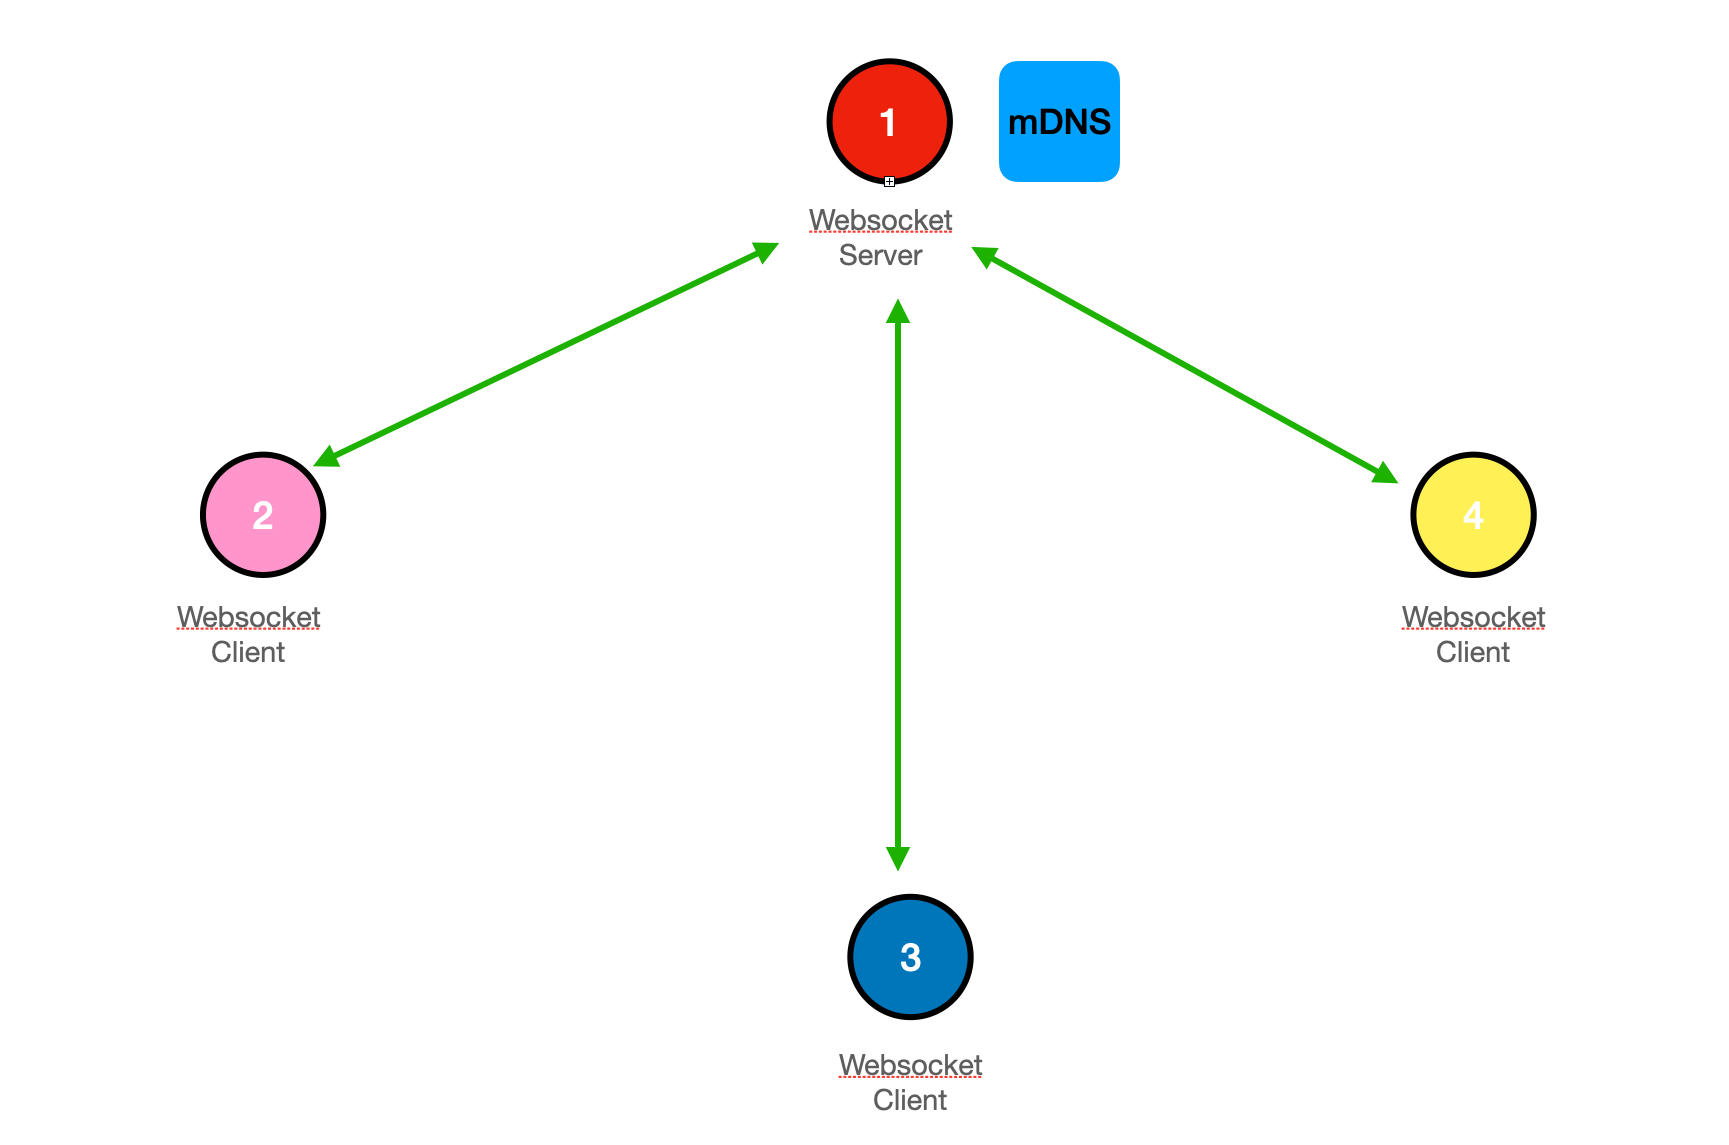
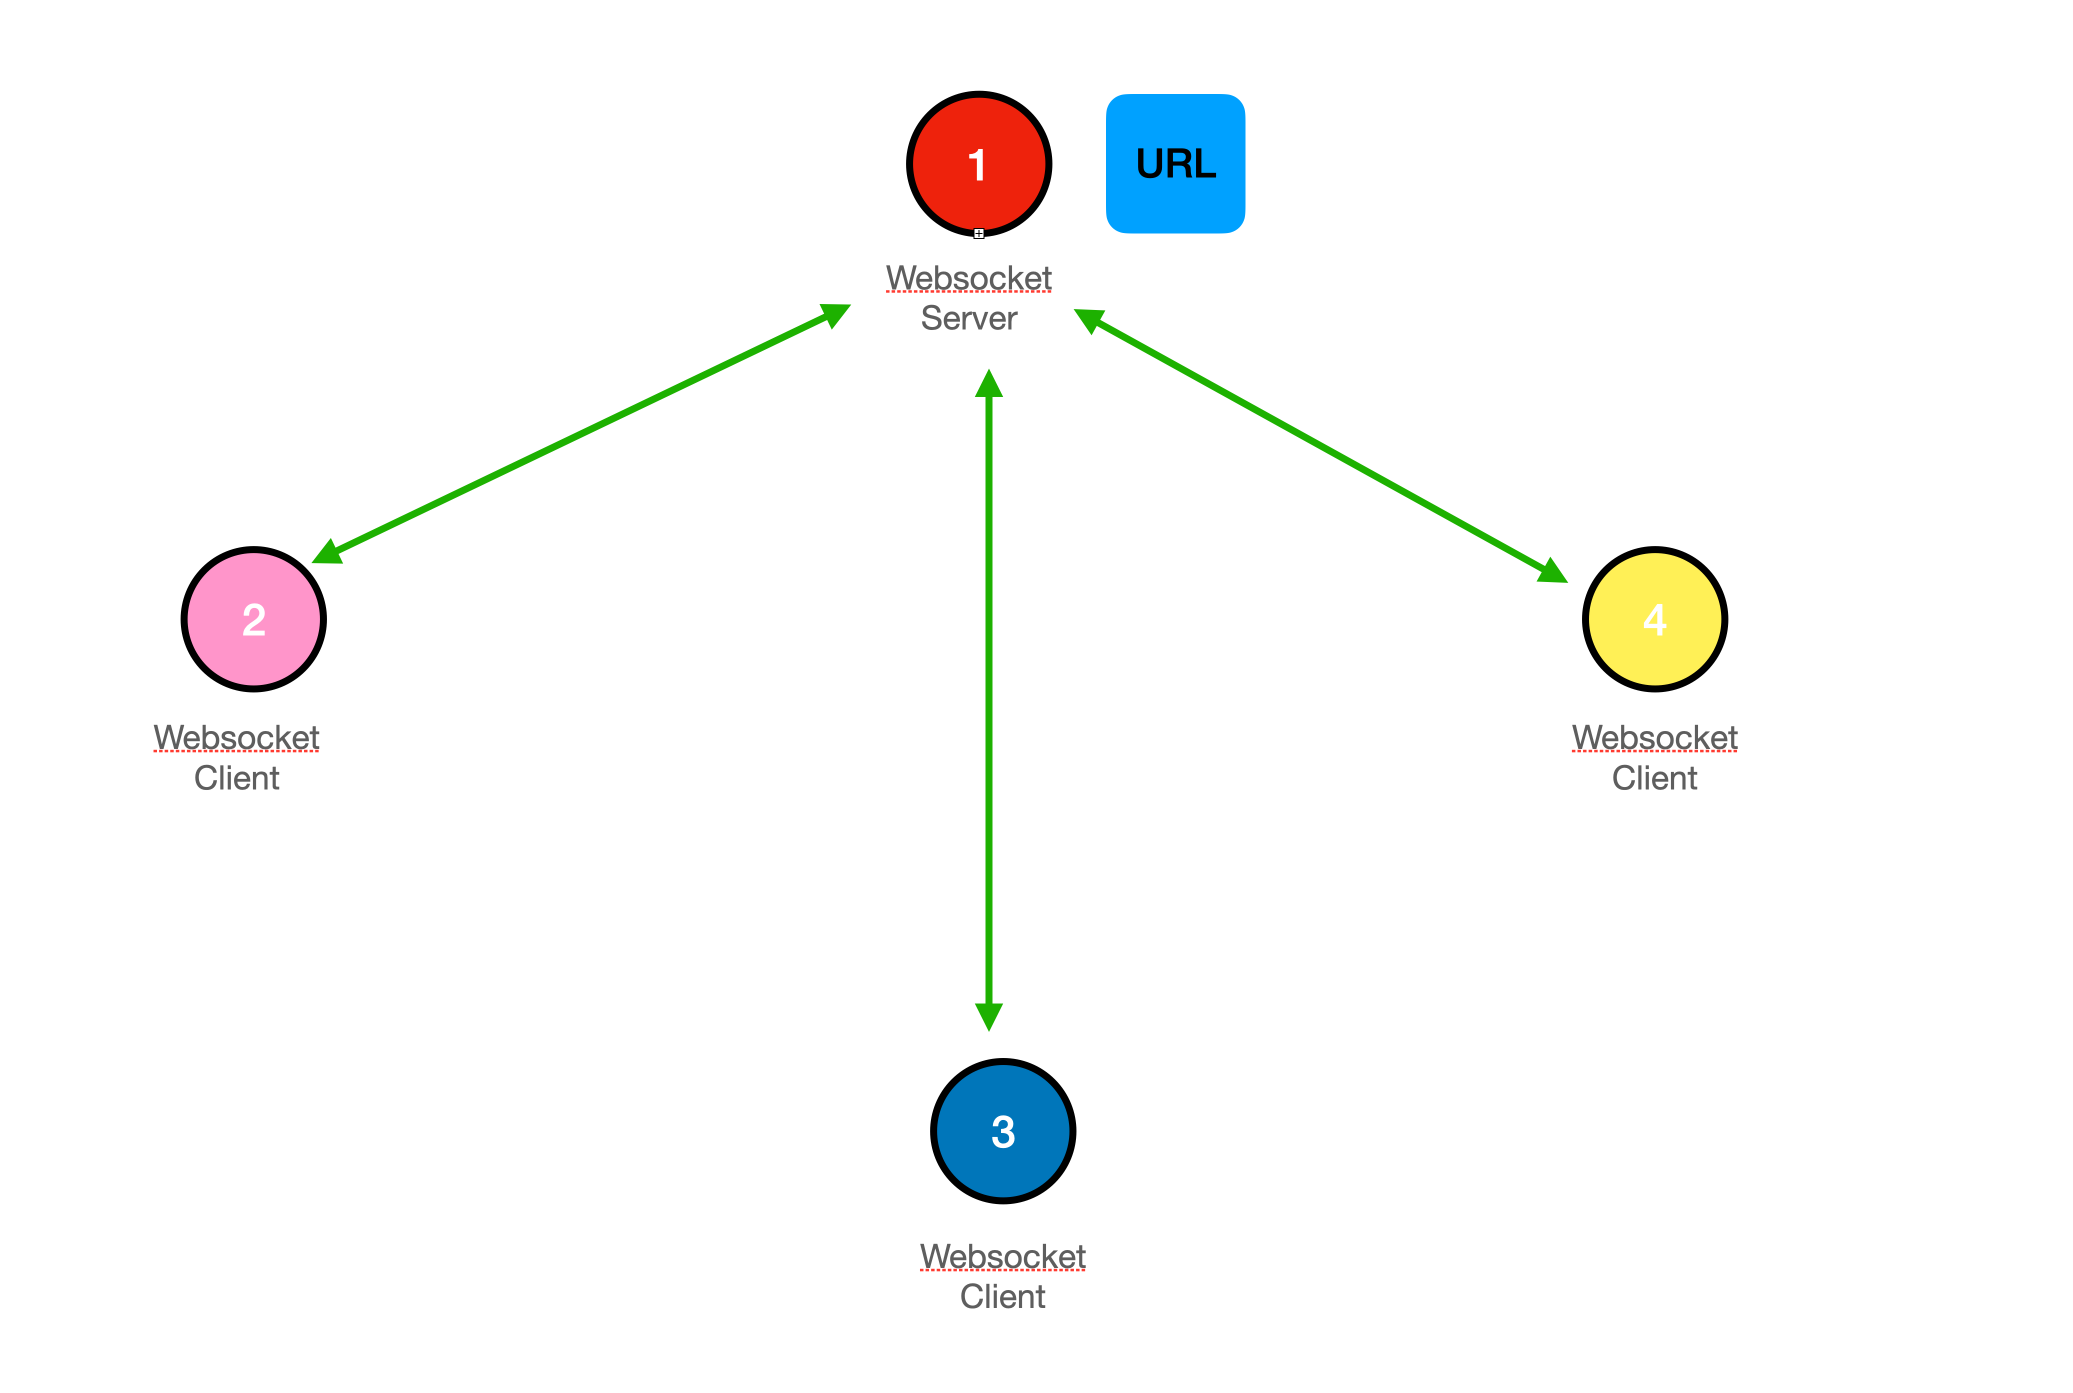
Add new images

Changed region(s): [[0.0625, 0.0306, 0.9057, 0.5808], [0.4372, 0.2751, 0.5622, 0.9782]]

diff --git a/mvr-spec.md b/mvr-spec.md
@@ -1107,7 +1107,9 @@ The protocol for communication is "RFC 6455 — The WebSocket Protocol". The pro
 
 The figure belows shows the communication structure. One station in the MVR network group start the mDNS server and the websockets.
 
-![media/MVR_Websockets.png](media/MVR_Websockets.png)
+| Websocket Mode of protocol    | Local Network Mode of protocol  |
+|---|---|
+| ![media/MVR_Websockets.png](media/MVR_Websockets.png)  |  ![media/MVR_LocalNetwork.png](media/MVR_LocalNetwork.png) |
 
     
 ## Discovery
